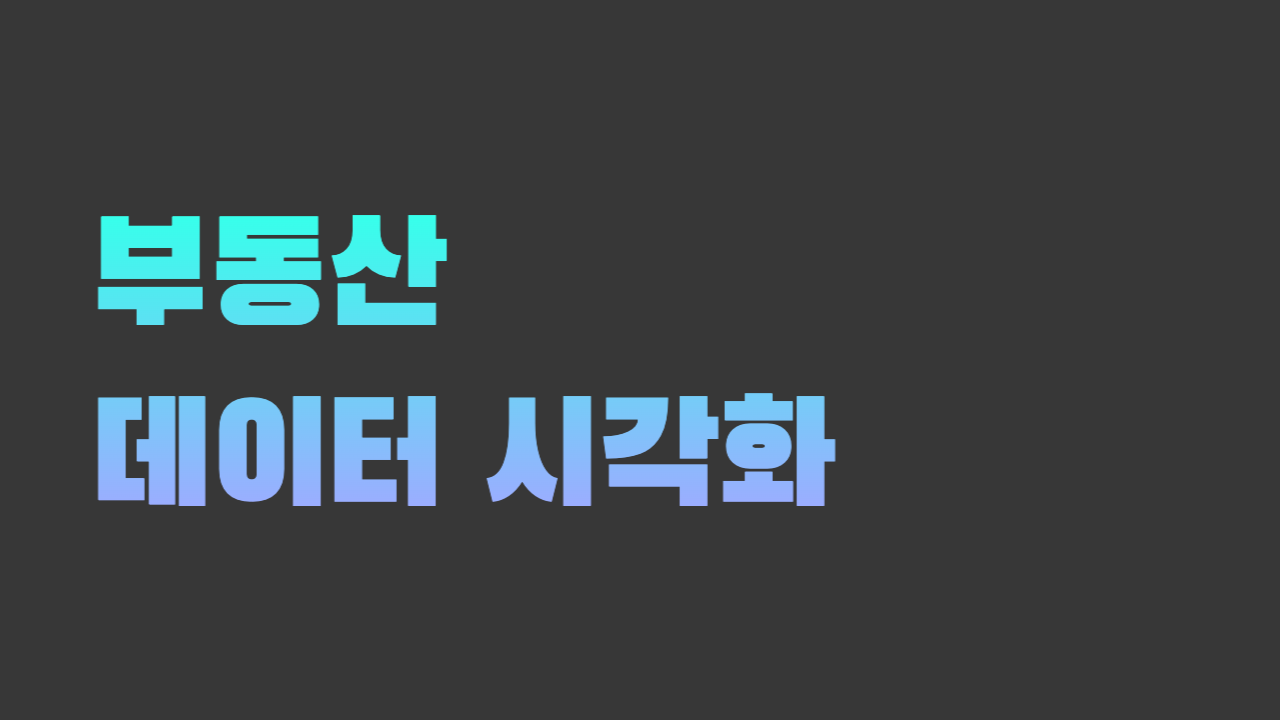
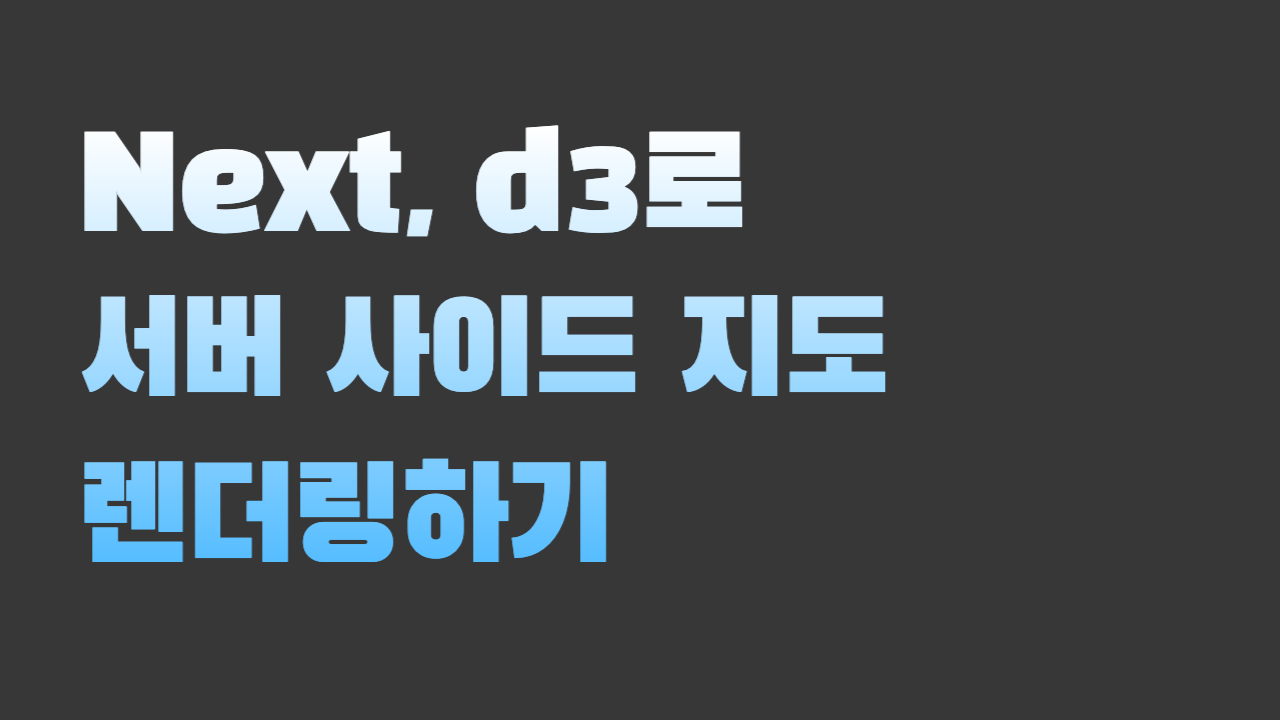
docs: 제목, 썸네일 수정

Changed region(s): [[0.0625, 0.1833, 0.7188, 0.7944], [0.375, 0.1528, 0.5938, 0.3361]]

diff --git a/_posts/front/2023-05-18-real-estate-data-visualization.md b/_posts/front/2023-05-18-real-estate-data-visualization.md
@@ -1,6 +1,6 @@
 ---
 layout: post
-title: 부동산 데이터 시각화 - 파일럿 프로젝트
+title: Next, d3로 서버 사이드 지도 렌더링하기
 description: 파일럿 프로젝트로 진행한 데이터 시각화와 서버 사이드에서 활용할 수 있도록 개선한 과정을 소개합니다.
 image: /images/front/post/2023-05-18-real-estate-data-visualization/thumbnail.png
 introduction: 파일럿 프로젝트로 진행한 데이터 시각화와 서버 사이드에서 활용할 수 있도록 개선한 과정을 소개합니다.
